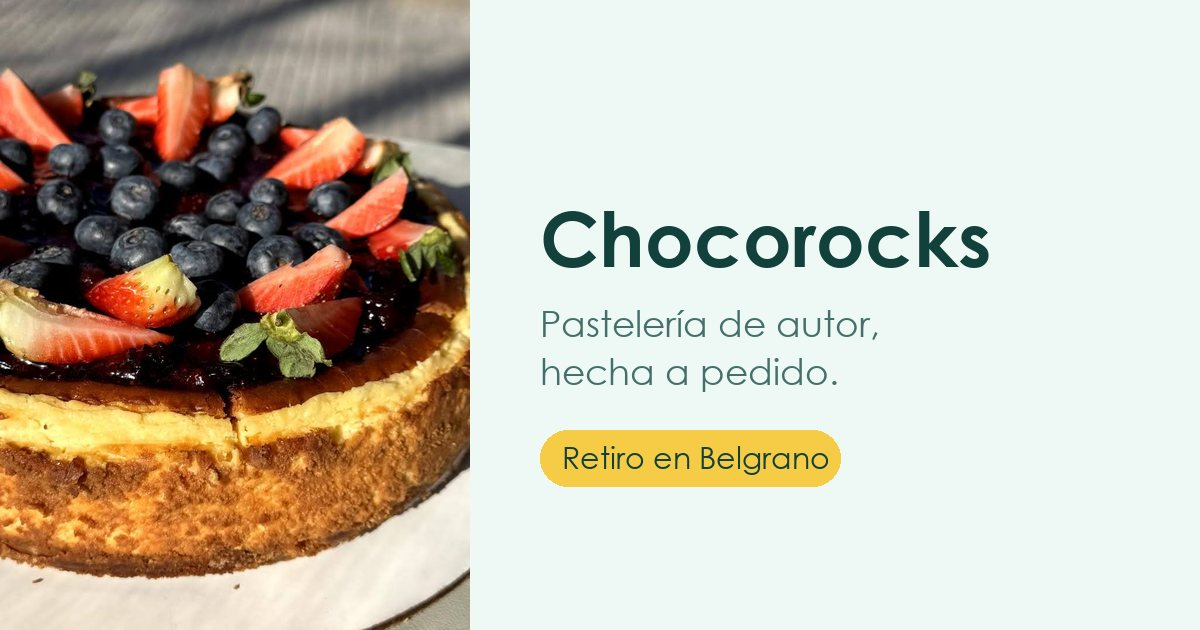
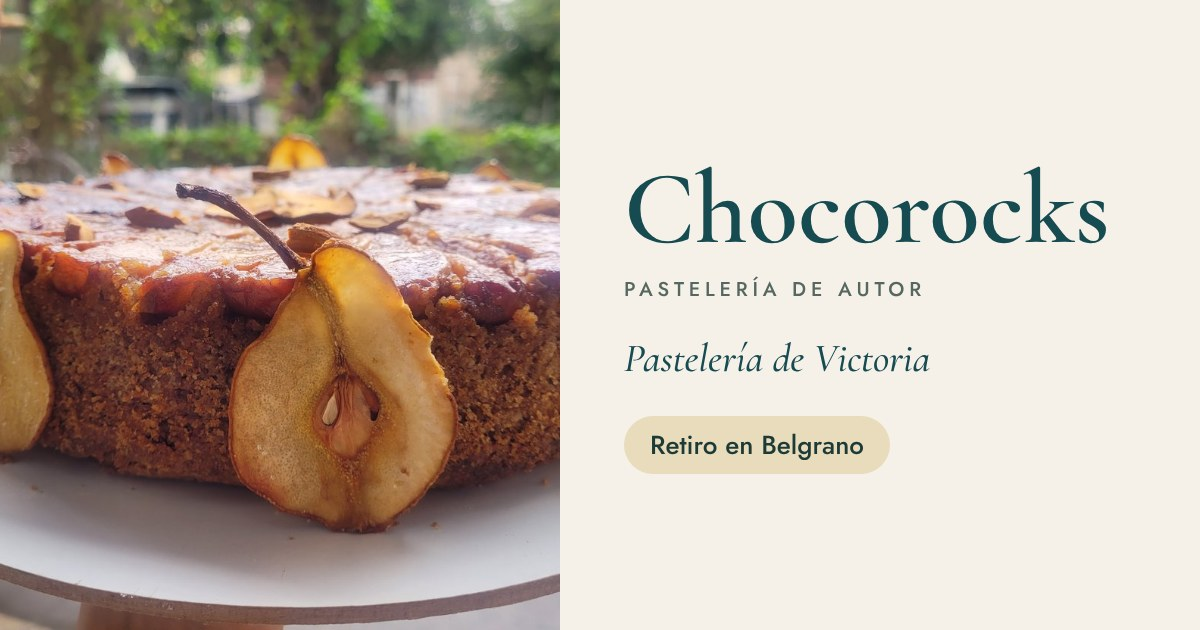
Portada con la torta de pera y nueva imagen para compartir
Claude-Session: https://claude.ai/code/session_01WGAuc2vtQ8jZp3dY7mG71S

diff --git a/index.html b/index.html
@@ -13,7 +13,7 @@
   <meta property="og:title" content="Chocorocks · Pastelería a pedido en Belgrano">
   <meta property="og:description" content="Pastelería de autor hecha a pedido por dos hermanas. Elegí tu torta y pedila por WhatsApp. Retiro en Belgrano.">
   <meta property="og:url" content="https://gonzalezzccamila.github.io/chocorocks/">
-  <meta property="og:image" content="https://gonzalezzccamila.github.io/chocorocks/fotos/compartir.jpg">
+  <meta property="og:image" content="https://gonzalezzccamila.github.io/chocorocks/fotos/compartir.jpg?v=2">
   <meta property="og:image:width" content="1200">
   <meta property="og:image:height" content="630">
   <meta property="og:locale" content="es_AR">

diff --git a/app.js b/app.js
@@ -10,11 +10,11 @@ const CONFIG = {
   timeoutMs: 6000,
 
   // Portada: archivo dentro de fotos/ (o URL) y su texto alternativo.
-  portada: "fotos/portada.jpg?v=3",
-  portadaAlt: "Logo CR by Chocorocks sobre una mesa de madera, con cookies de chocolate",
+  portada: "fotos/portada-torta-de-pera.jpg",
+  portadaAlt: "Torta de pera hecha por Victoria, con plantas de fondo",
 
   // Frase debajo del nombre, sobre quién hace las tortas. Hasta 2 líneas en celular. Vacío = no se muestra.
-  firma: "Pastelería de Victoria · Atención de Camila",
+  firma: "Pastelería de Victoria",
 
   // "Qué pasa después", debajo del botón de WhatsApp en el pedido. Vacío ([]) = no se muestra.
   pasosDespues: [
